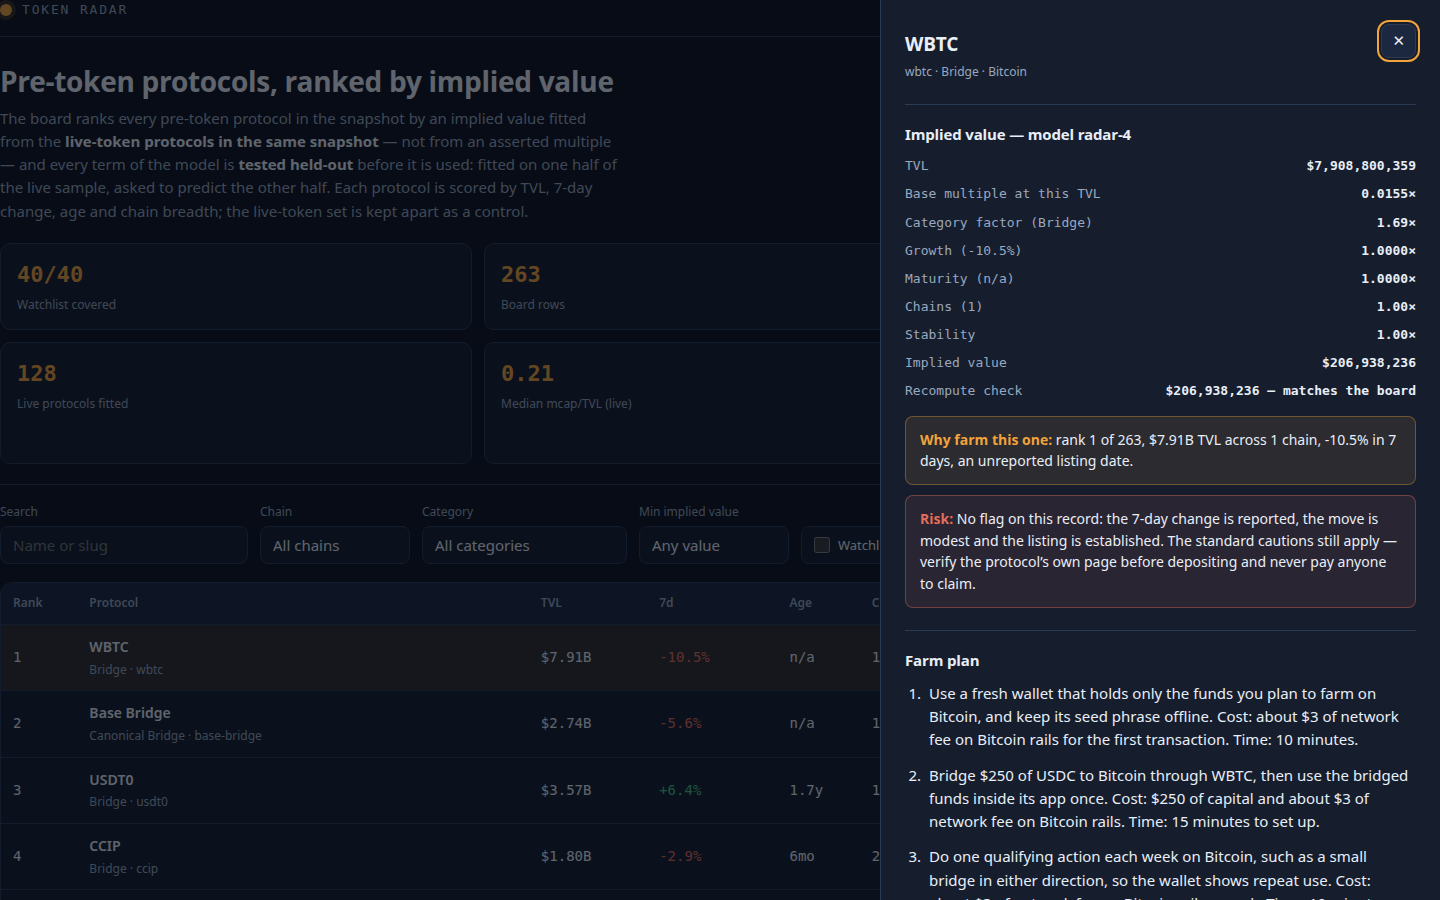
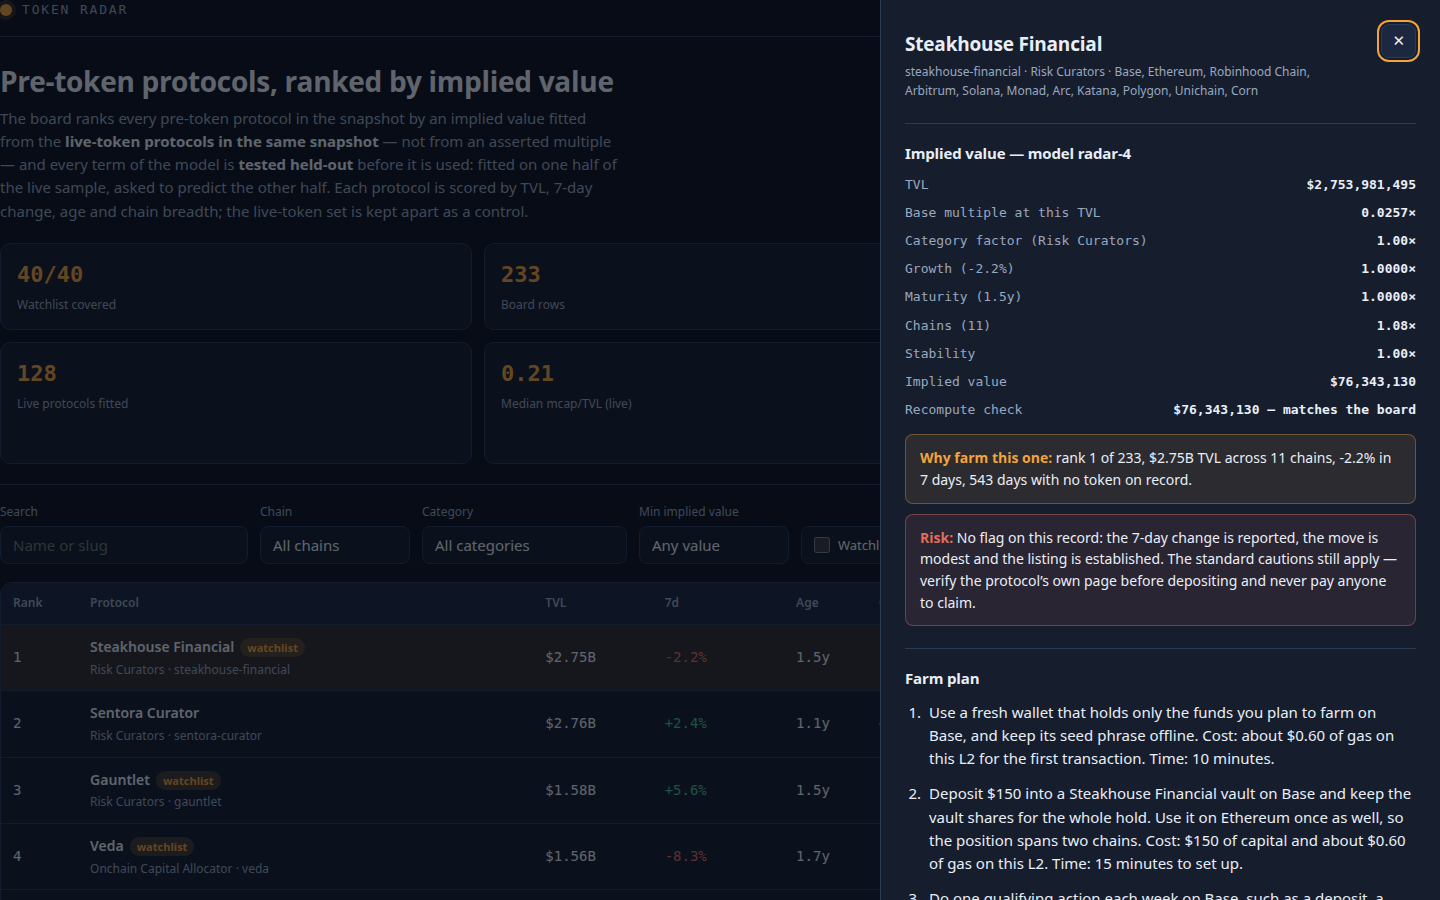
Token Radar radar-4: restore v2 eligibility, reconcile validation numbers and listing-date copy
- Eligibility back to the v2 rule: above the $50M floor, the bridge,
  liquid-staking and restaking categories are set aside again, so no
  wrapped or bridged product tops the board (WBTC, Base Bridge, USDT0,
  CCIP are out); board back to 233 rows, top Steakhouse Financial.
- Validation numbers reconciled: the beta-options table now evaluates
  every candidate at one fixed beta, so the fitted-slope RMSE
  (2.090579) agrees with the variants table and the final RMSE.
- Listing-date copy agrees: a row with no listed_at says the listing
  date is unreported in both the why-farm line and the risk note.
- Fresh screenshots of the fixed board.

diff --git a/lib/model.ts b/lib/model.ts
@@ -22,14 +22,10 @@
 // A protocol is pre-token when its DefiLlama record carries no token at
 // all (mcap_usd, gecko_id and symbol are all null). Live-token protocols
 // are never ranked: they are set aside with their market cap shown as a
-// fact. The board ranks every rankable pre-token protocol: the watchlist
-// is the floor, never the ceiling, so bridge and liquid-staking protocols
-// above the floor are in too — each records no token of its own, and a
-// bridge or liquid-staking protocol may still issue one; the board labels
-// the category so the reader can see it. What stays out: versioned pools,
-// exchange products, and names that say wrapped or staked, because those
-// are products of tokens that already trade, not launches waiting to
-// happen. Below the floor the radar keeps every rankable protocol:
+// fact. The board also leaves out wrapped, staked and bridged products of
+// tokens that already trade — the snapshot's own watchlist rule, applied
+// to the board above the floor — because those are not launches waiting
+// to happen. Below the floor the radar keeps every rankable protocol:
 // the early board exists to find launches, not to re-apply the floor.
 //
 //   baseMultiple(TVL) = K x TVL^(BETA - 1)       (BETA chosen held-out)
@@ -482,8 +478,10 @@ export function validateModel(snapshot: Snapshot, live: SnapshotProtocol[]): Val
   const [foldA, foldB] = folds;
   const asOf = snapshot.as_of;
 
-  // Pass one: beta. Each fold's own fitted slope is its "fitted" candidate;
-  // the reported beta for that label is the full-sample fitted slope, clamped.
+  // Pass one: beta. The three candidates are fixed beta values — the
+  // fitted slope is the full-sample fitted slope, clamped — and each is
+  // evaluated at that same beta on both folds, so the beta-options table
+  // and the variants table report one consistent number per model.
   const fullFit = fitLive(live, MODEL.beta);
   const fittedBeta = clampBeta(fullFit.fitted_slope);
   const betaLabels = [
@@ -493,10 +491,8 @@ export function validateModel(snapshot: Snapshot, live: SnapshotProtocol[]): Val
   ];
   const beta_options = betaLabels.map(({ label, beta }) => {
     const perFold = (fitFold: SnapshotProtocol[], testFold: SnapshotProtocol[]): number => {
-      // The "fitted" candidate uses the fit fold's own slope, the others use their fixed beta.
-      const b = label === 'fitted slope' ? clampBeta(fitLive(fitFold, MODEL.beta).fitted_slope) : beta;
       return logErrors(fitFold, testFold, asOf, {
-        beta: b,
+        beta,
         growth: true,
         maturity: true,
         chain: true,
@@ -679,6 +675,15 @@ const WRAPPED_WORD = /\b(wrapped|staked|staking)\b/i;
 /** A name that begins with an exchange's name: an exchange's product, not a launch. */
 const EXCHANGE_PREFIX = /^(Binance|Coinbase|Bybit|Kraken|Bitget|OKX|Bitfinex|Gemini)\b/i;
 
+/** The categories the snapshot's own watchlist rule keeps off the list. */
+const WRAPPED_CATEGORIES = new Set([
+  'Bridge',
+  'Canonical Bridge',
+  'Liquid Staking',
+  'Liquid Restaking',
+  'Restaked BTC',
+]);
+
 /** Whether a protocol records no token at all. */
 export function isPreToken(p: SnapshotProtocol): boolean {
   return p.mcap_usd === null && p.gecko_id === null && p.symbol === null;
@@ -690,17 +695,17 @@ export function isRankable(p: SnapshotProtocol): boolean {
 }
 
 /**
- * Whether a rankable protocol belongs on the board. The watchlist is the
- * floor, never the ceiling: bridge and liquid-staking protocols above the
- * floor are in, because each records no token of its own and may still
- * issue one — the board labels the category so the reader can see it.
- * What stays out are the products of tokens that already trade: names
- * that say wrapped or staked, and names that begin with an exchange.
+ * Whether a rankable protocol belongs on the board. The watchlist's own
+ * rule keeps wrapped, staked and bridged products of tokens that already
+ * trade off the list, and this board applies the same rule above the
+ * floor: a $7B wrapped token is not a launch waiting to happen, whatever
+ * its record says. Below the floor the radar keeps every rankable
+ * protocol, because the early board exists to find launches.
  */
 export function isBoardEligible(p: SnapshotProtocol, floorUsd: number): boolean {
-  void floorUsd;
   if (!isRankable(p)) return false;
   if (WRAPPED_WORD.test(p.name) || EXCHANGE_PREFIX.test(p.name)) return false;
+  if (p.tvl_usd >= floorUsd && p.category !== null && WRAPPED_CATEGORIES.has(p.category)) return false;
   return true;
 }
 
@@ -960,8 +965,9 @@ export function riskNote(p: SnapshotProtocol, age: number | null): string {
     );
   }
   if (notes.length === 0) {
+    const listing = age === null ? 'the listing date is unreported' : 'the listing is established';
     notes.push(
-      'No flag on this record: the 7-day change is reported, the move is modest and the listing is established. The standard cautions still apply — verify the protocol’s own page before depositing and never pay anyone to claim.',
+      `No flag on this record: the 7-day change is reported, the move is modest and ${listing}. The standard cautions still apply — verify the protocol’s own page before depositing and never pay anyone to claim.`,
     );
   }
   return notes.join(' ');

diff --git a/dashboard/app.js b/dashboard/app.js
@@ -227,9 +227,8 @@
         '<p class="note">No category factor is applied: the held-out test dropped the category term, so every category uses 1.00. ' +
         'The fitted factors are still listed in the validation table as the variant that lost.</p>') +
       '<p class="note">The board covers all 40 watchlist slugs and every rankable pre-token protocol: ' +
-      'bridge and liquid-staking protocols above the $50M floor are in, because each records no token of its own and may still issue one, ' +
-      'and the board labels the category so the reader can see it. What stays out are versioned pools, exchange products, and names that say ' +
-      'wrapped or staked, because those are products of tokens that already trade, not launches waiting to happen. ' +
+      'wrapped, staked and exchange-branded products, and above the $50M floor the bridge and liquid-staking categories, ' +
+      'are set aside because a $7B wrapped token is not a launch waiting to happen. ' +
       'Below the floor every rankable protocol stays, so the early board finds launches. ' +
       'A protocol is described as recording no token — never as having none.</p>' +
       '</section>';

diff --git a/README.md b/README.md
@@ -99,13 +99,12 @@ Rankable means pre-token, not a CEX, and not a versioned pool name
 The board ranks all 40 watchlist slugs unconditionally, plus every
 board-eligible pre-token protocol. Board-eligible excludes wrapped,
 staked and exchange-branded products — a $7B wrapped token is not a
-launch waiting to happen — but it does not exclude bridge and
-liquid-staking protocols above the $50M floor: each records no token of
-its own and may still issue one, and the board labels the category so the
-reader can see it. Below the floor every rankable protocol stays, so the
+launch waiting to happen — and above the $50M floor it also excludes
+the bridge, liquid-staking and restaking categories, the snapshot's own
+watchlist rule. Below the floor every rankable protocol stays, so the
 early board finds launches. That gives every rankable protocol a row:
-289 in the snapshot, minus the wrapped, staked, exchange and versioned
-names the rule keeps out. The run prints the exact count.
+289 in the snapshot, minus the wrapped, staked, bridged, exchange and
+versioned names the rule keeps out. The run prints the exact count.
 
 ## Farm plans
 
